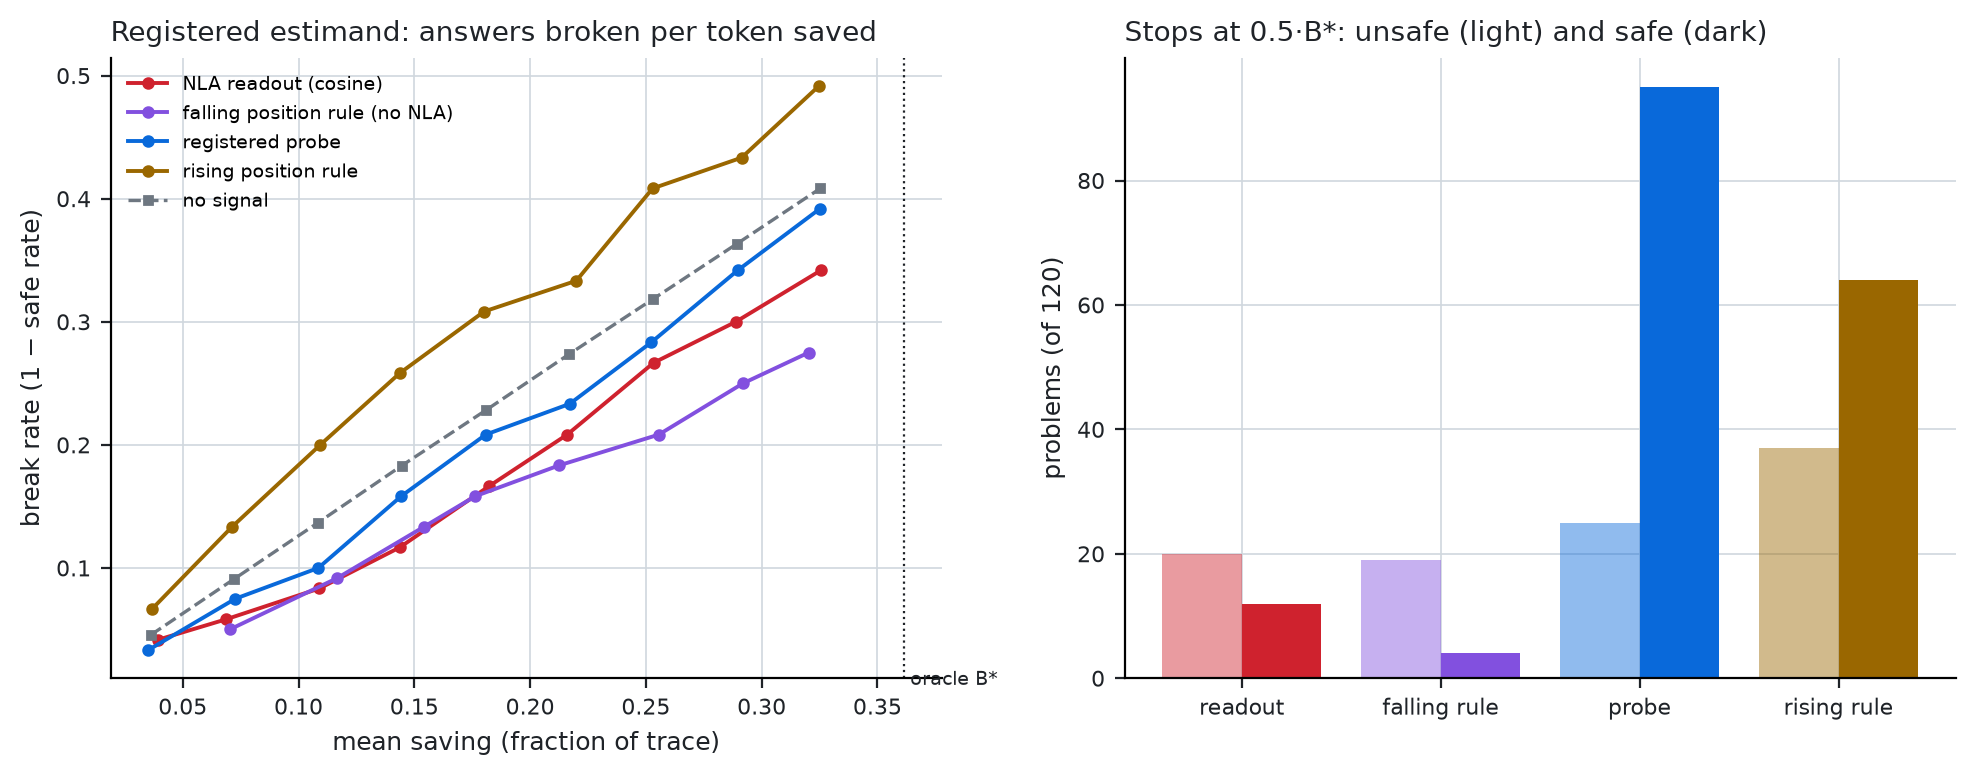
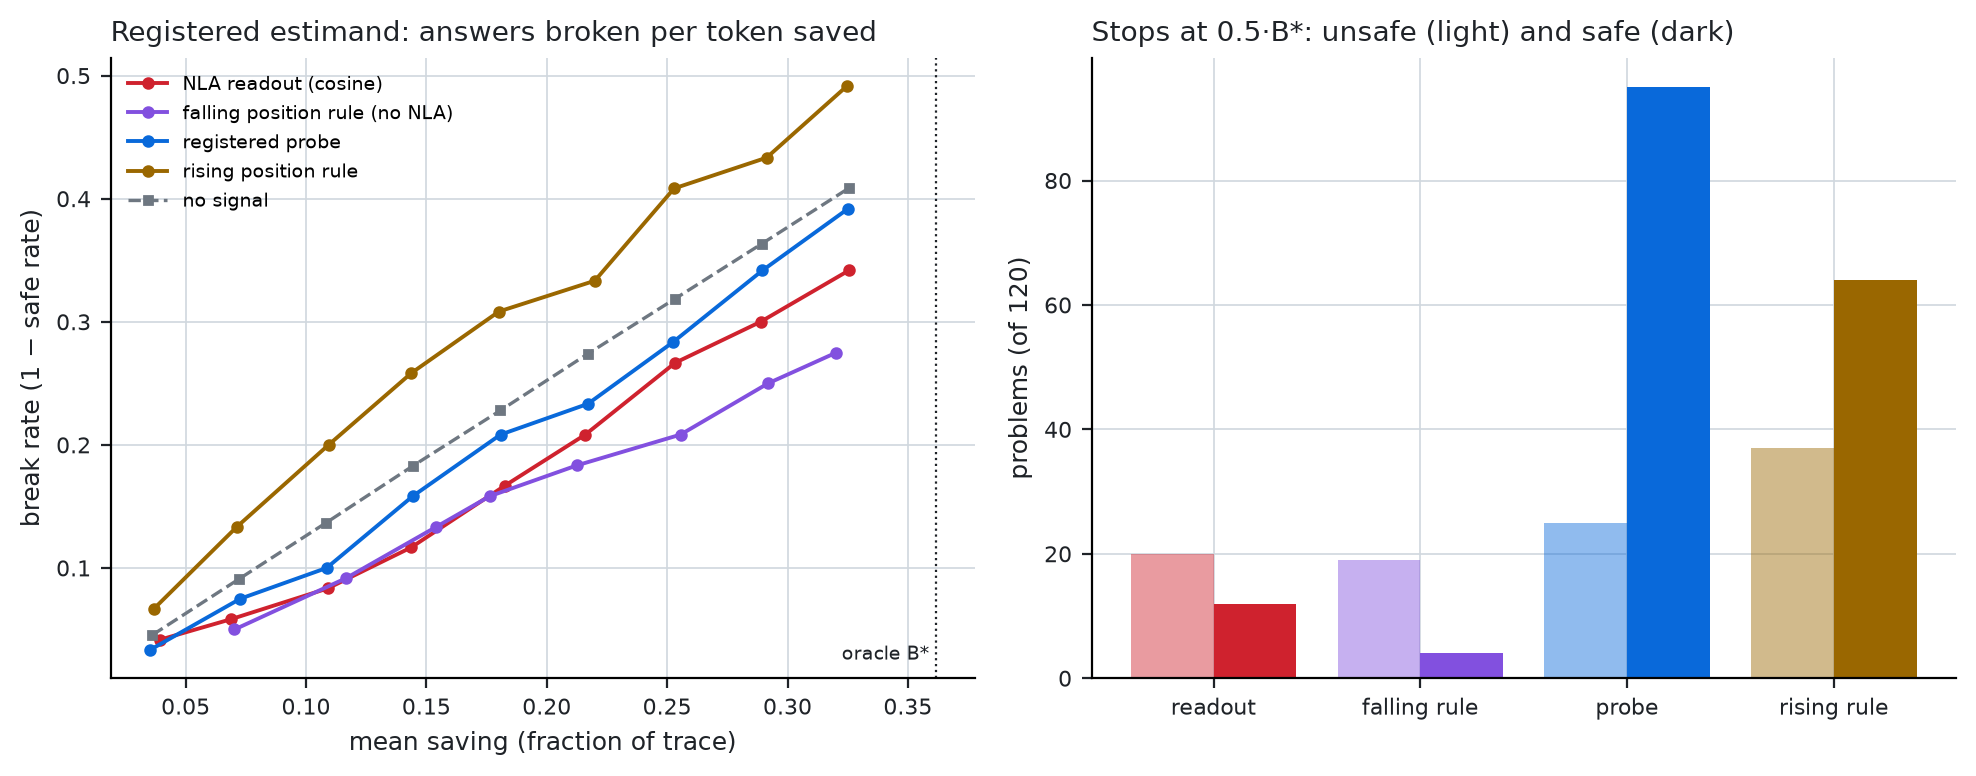
docs(paper): regenerate figures 2, 4 and 5, add figure 7 (rep1), and update the figure plan

diff --git a/paper/MANUSCRIPT_OUTLINE.md b/paper/MANUSCRIPT_OUTLINE.md
@@ -246,12 +246,22 @@ report.
 | Fig 1 | Schematic: trace, chunks, `i*`, the menu's windows, forcing | to draw | todo |
 | Fig 2 | Registered estimand curves; stops at 0.5·B\* | `fig_v2_2` | done (exploratory data) |
 | Fig 3 | Information increments, two labels | `fig_v2_1` | done |
-| Fig 4 | Stage 0 policy gaps to no signal | `fig_v2_4` | done |
-| Fig 5 | Selective risk against coverage, menu and Stage 0 | `fig_v2_5` | done (polish labels) |
+| Fig 4 | Stage 0 policy gaps to no signal | `fig_v2_4` | done; rule names in words (2026-10-23) |
+| Fig 5 | Selective risk against coverage, menu and Stage 0 (`main` arms; post hoc). Not deployment evidence | `fig_v2_5` | done; labels polished (2026-10-23) |
 | Fig 6 | Truncation | `fig_v2_3` | done; add the D82 panel when measured |
+| Fig 7 | rep1: D75 H1/H2 on the 48-token (confirmatory) and 256-token (sensitivity) outcomes with the ±0.05 margin; Stage 1's increments with the ±0.01 margin. The panels have different units | `fig_v2_6` | done (2026-10-23) |
 | Table 1 | Setting and preregistration timeline (D66–D84) | DECISIONS | todo |
 | Table 2 | Frozen phase lexicon and its `rep1` transfer AUC | `lexicon.json`; `rep1` | pending |
 | Table 3 | D75 confirmatory H1/H2 verbatim, plus readings under O256 | `rep1_o3_registered`, `rep1_extforced` | pending |
 
 `python scripts/make_paper_figures_v2.py` regenerates every figure from
-stored JSON.
+stored JSON. To read the outputs from another checkout, add
+`--runs <path>`; the figures are still written to this checkout.
+
+**Caption notes for Fig 7:**
+- The 256-token points are the D82 sensitivity analysis, which never
+  replaces the registered verdict.
+- "Equivalent within ±0.05" excludes effects of 0.05 or more, not smaller
+  ones.
+- Stage 1's comparator is the same-label probe, not the registered
+  correctness probe.
